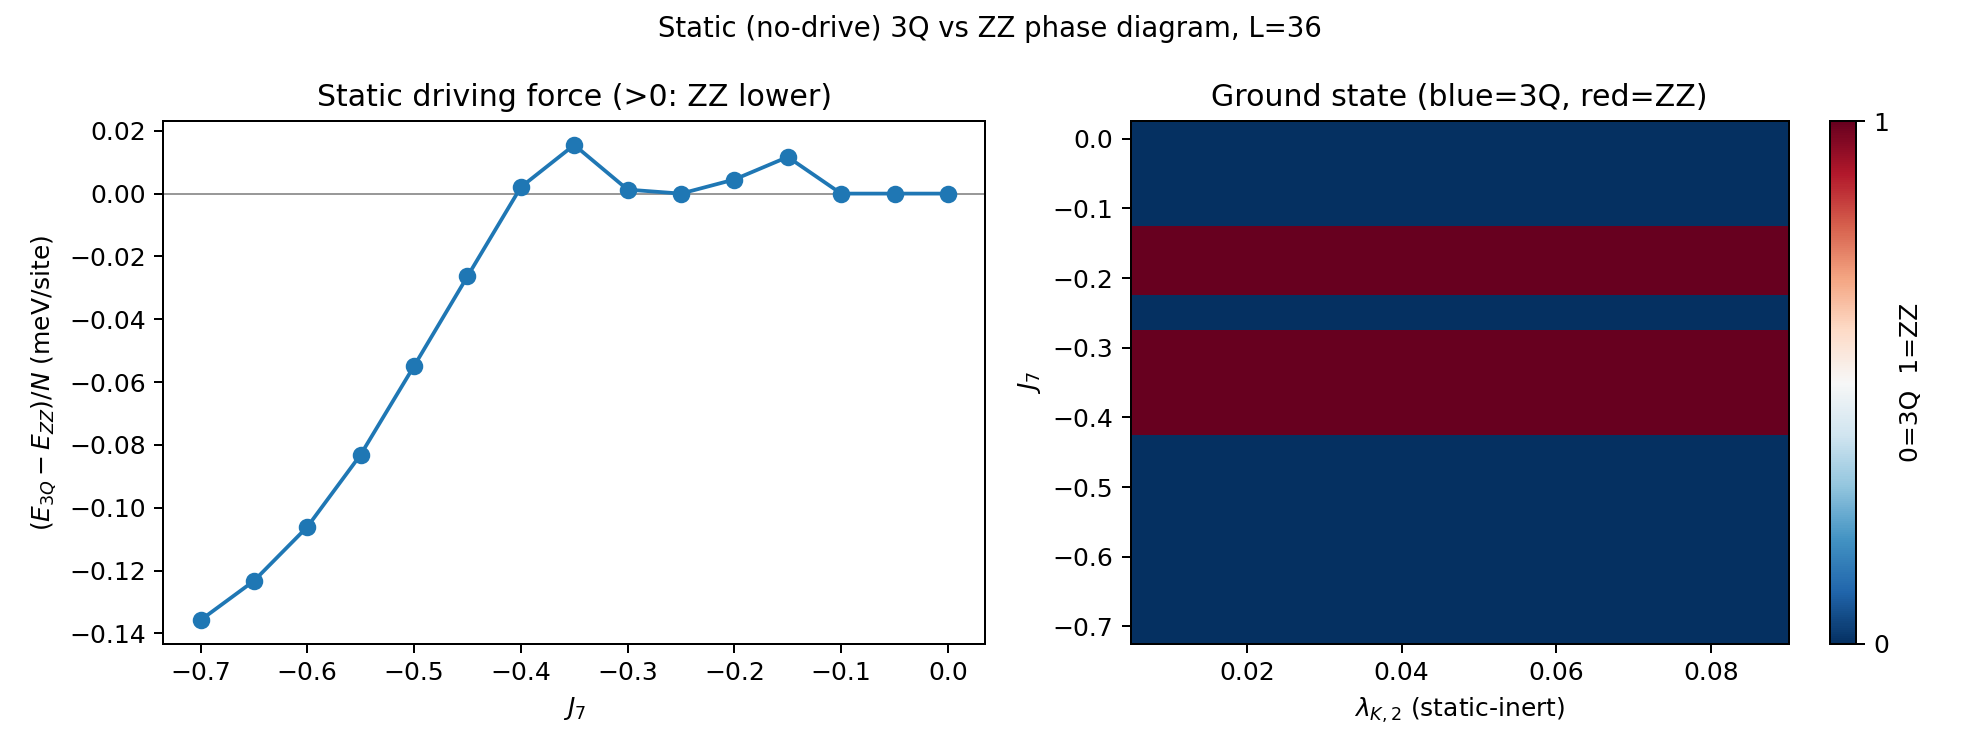
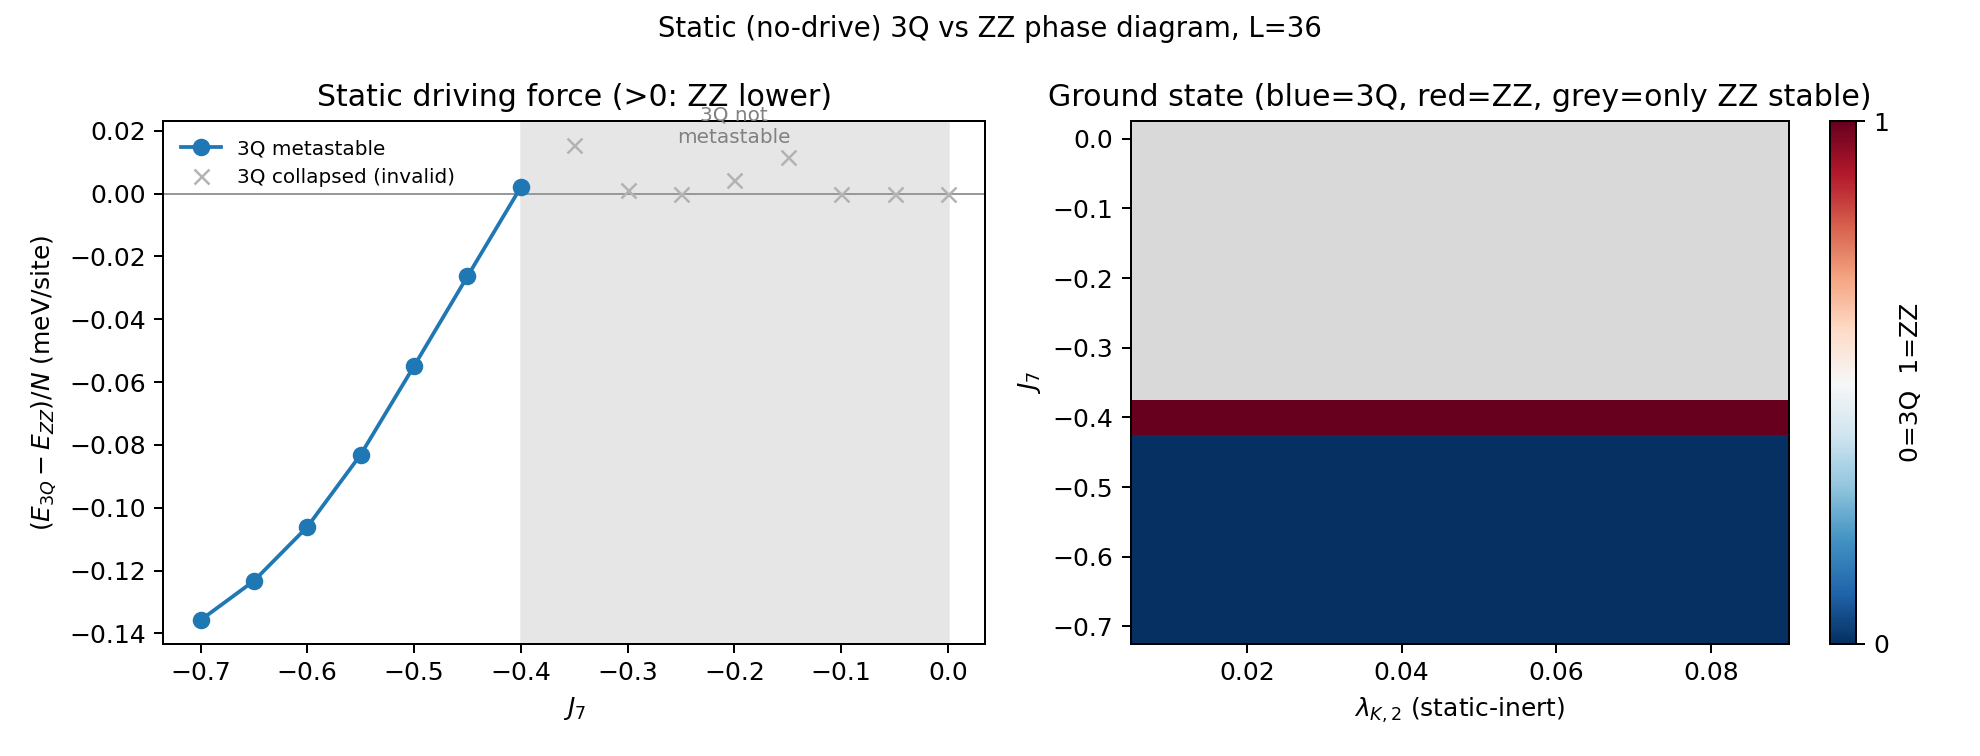
Fix static PD raggedness: mask invalid collapsed-3Q branch (r3_3Q<0.85)
The dE(3Q-ZZ) was ragged for J7 > -0.40 because the 3Q seed COLLAPSES there
(r3_3Q -> 0) -> its energy is a collapsed state, not 3Q, so dE was meaningless.
Now only the metastable-3Q branch (J7 <= -0.40, smooth monotone dE) is plotted;
J7 > -0.40 shown as 'only ZZ stable' (grey). Crossover ~ -0.42.

Changed region(s): [[0.0924, 0.1521, 0.4929, 0.8519], [0.5237, 0.0913, 0.9551, 0.5476]]

diff --git a/NCTO_project/scripts/run_campaign.py b/NCTO_project/scripts/run_campaign.py
@@ -114,20 +114,33 @@ def cmd_static_pd(args):
         w.writeheader(); w.writerows(rows)
     print(f"wrote {csv_path.relative_to(ROOT)} ({len(rows)} J7 points)", flush=True)
 
+    # dE(3Q-ZZ) is only meaningful where the 3Q branch is actually metastable;
+    # for J7 > ~-0.40 the 3Q seed collapses (r3_3Q -> 0) so those points are
+    # invalid (the "3Q" energy is a collapsed state). Mask them.
+    R3_MIN = 0.85
     plt = _mpl()
-    j7s = [r["J7"] for r in rows]
-    de = [r["dE_per_site"] for r in rows]
-    winner = np.array([[0.0 if r["ground_state"] == "3Q" else 1.0] for r in rows])
+    j7s = np.array([r["J7"] for r in rows])
+    de = np.array([r["dE_per_site"] for r in rows])
+    valid = np.array([r["r3_3Q"] >= R3_MIN for r in rows])
     fig, (ax0, ax1) = plt.subplots(1, 2, figsize=(11, 4.2))
     ax0.axhline(0.0, color="0.6", lw=0.8)
-    ax0.plot(j7s, de, "o-", color="C0")
+    ax0.plot(j7s[valid], de[valid], "o-", color="C0", label="3Q metastable")
+    ax0.plot(j7s[~valid], de[~valid], "x", color="0.7", label=r"3Q collapsed (invalid)")
+    if valid.any():
+        ax0.axvspan(j7s[valid].max(), j7s.max(), color="0.9", zorder=0)
+        ax0.text(0.5 * (j7s[valid].max() + j7s.max()), ax0.get_ylim()[1] * 0.7,
+                 "3Q not\nmetastable", ha="center", fontsize=8, color="0.5")
     ax0.set_xlabel("$J_7$"); ax0.set_ylabel(r"$(E_{3Q}-E_{ZZ})/N$ (meV/site)")
     ax0.set_title("Static driving force (>0: ZZ lower)")
+    ax0.legend(fontsize=8, frameon=False)
+    # ground-state column, greyed where 3Q not metastable (only ZZ exists there)
     lam = args.lambda_values
-    grid = np.tile(winner, (1, len(lam)))     # flat along lambda (static-inert)
-    im = ax1.pcolormesh(lam, j7s, grid, cmap="RdBu_r", vmin=0, vmax=1, shading="nearest")
+    col = np.where(valid, np.where(de < 0, 0.0, 1.0), np.nan)  # 0=3Q,1=ZZ, nan=only-ZZ
+    grid = np.tile(col[:, None], (1, len(lam)))
+    cmap = plt.cm.RdBu_r.copy(); cmap.set_bad("0.85")
+    im = ax1.pcolormesh(lam, j7s, grid, cmap=cmap, vmin=0, vmax=1, shading="nearest")
     ax1.set_xlabel(r"$\lambda_{K,2}$ (static-inert)"); ax1.set_ylabel("$J_7$")
-    ax1.set_title("Ground state (blue=3Q, red=ZZ)")
+    ax1.set_title("Ground state (blue=3Q, red=ZZ, grey=only ZZ stable)")
     fig.colorbar(im, ax=ax1, ticks=[0, 1], label="0=3Q  1=ZZ")
     fig.suptitle(f"Static (no-drive) 3Q vs ZZ phase diagram, L={args.lattice}", fontsize=11)
     png = ana / "static_phase_diagram_3q_zz.png"